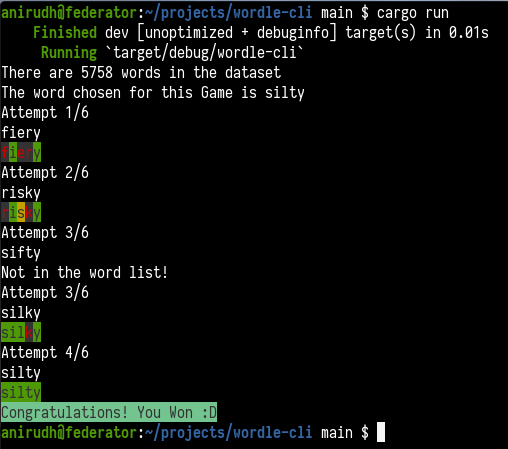
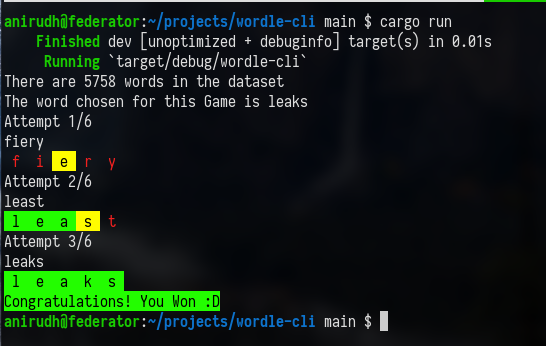
wider coloring thanks to https://github.com/AshishShenoy/wordle

Changed region(s): [[0.0, 0.0, 1.0, 1.0], [0.6201, 0.4335, 0.6496, 0.5202]]

diff --git a/src/main.rs b/src/main.rs
@@ -79,13 +79,25 @@ impl Attempt {
             .map(|x| {
                 match x {
                     &CharMatch::DoesNotExist(char) => {
-                        print!("{}", char.to_string().on_black().red());
+                        print!("{}{}{}", 
+                            " ".to_string().on_black().bright_red(),
+                            char.to_string().on_black().bright_red(),
+                            " ".to_string().on_black().bright_red(),
+                        );
                     }
                     &CharMatch::ExistsSomewhereElse(char) => {
-                        print!("{}", char.to_string().on_yellow().black());
+                        print!("{}{}{}", 
+                            " ".to_string().on_bright_yellow().black(),
+                            char.to_string().on_bright_yellow().black(),
+                            " ".to_string().on_bright_yellow().black(),
+                        );
                     }
                     &CharMatch::ExistsHere(char) => {
-                        print!("{}", char.to_string().on_green().black());
+                        print!("{}{}{}", 
+                            " ".to_string().on_bright_green().black(),
+                            char.to_string().on_bright_green().black(),
+                            " ".to_string().on_bright_green().black(),
+                        );
                     }
                 };
             })
@@ -257,7 +269,7 @@ mod tests {
 
     #[test]
     fn test_attempt() {
-        let target_text = String::from("FIERY");
+        // let target_text = String::from("FIERY");
 
         let mut test_text_pass = String::from("START");
         let mut test_text_fail_length = String::from("STARTS");
@@ -279,7 +291,7 @@ mod tests {
         // will pass
         a.attempt(&mut test_text_pass);
 
-        a.resolve(target_text);
+        a.resolve(&target_text);
 
         // manually match the vectors
         let match_vec = vec![
